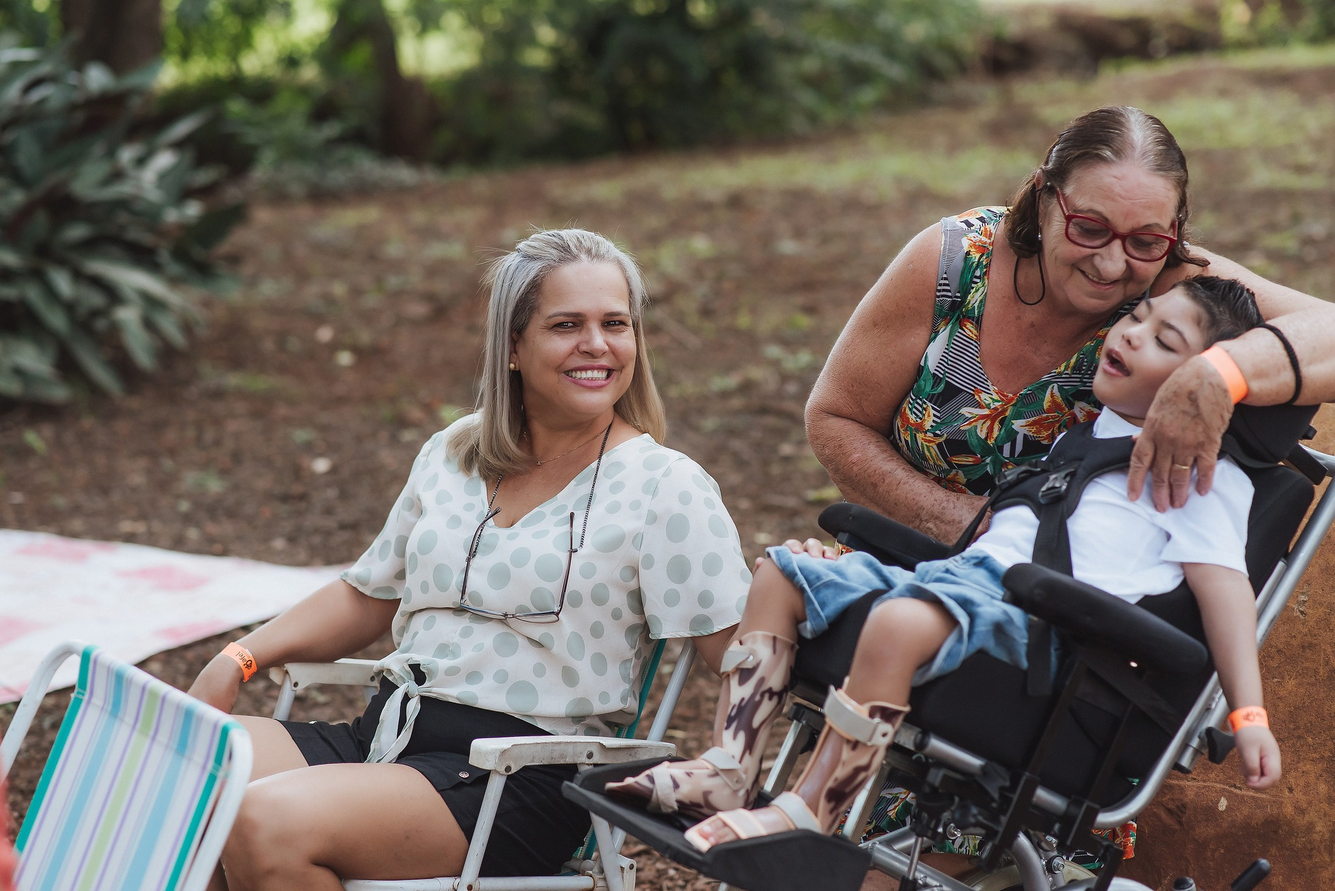
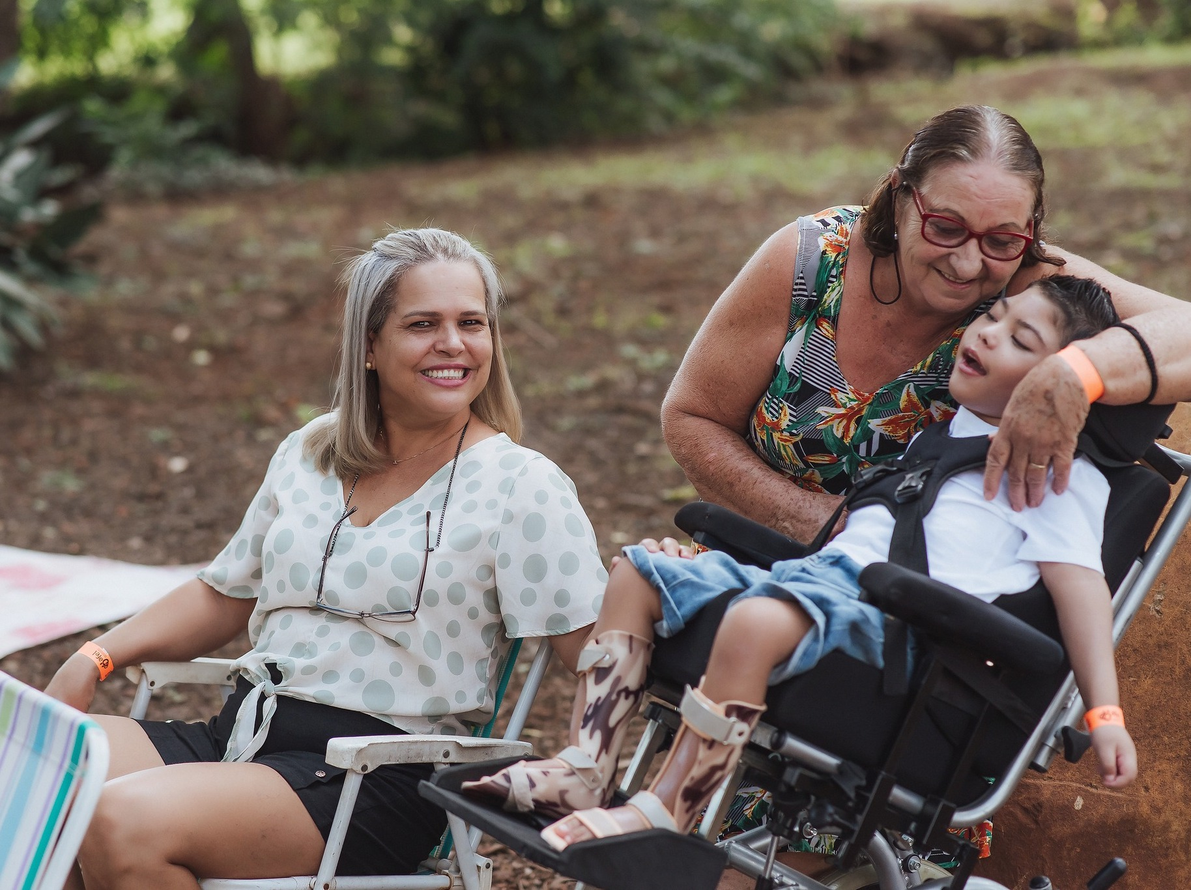
background de login

diff --git a/resources/views/auth/login.blade.php b/resources/views/auth/login.blade.php
@@ -1,77 +1,76 @@
-<div class="background">
-    <x-guest-layout>
-        <div class="hidden fixed top-0 right-0 px-6 py-4 sm:block">
-            {{-- <a href="http://127.0.0.1:8000/login" class="text-sm text-gray-700 dark:text-gray-500 underline">Log in</a> --}}
+<x-guest-layout>
+    <div class="hidden fixed top-0 right-0 px-6 py-4 sm:block">
+        {{-- <a href="http://127.0.0.1:8000/login" class="text-sm text-gray-700 dark:text-gray-500 underline">Log in</a> --}}
 
-            <a href="http://127.0.0.1:8000/register"
-                class="ml-4 text-sm text-gray-700 dark:text-gray-500 underline">Cadastre-se</a>
-        </div>
+        <a href="http://127.0.0.1:8000/register"
+            class="ml-4 text-sm text-gray-700 dark:text-gray-500 underline">Cadastre-se</a>
+    </div>
 
-        <div class="organizar">
-            <x-auth-card>
-                <x-slot name="logo">
-                    <div class="w-full sm:max-w-md mt-6 px-6 py-4 overflow-hidden sm:rounded-lg">
-                        <img src="imagens/logoCompletaColorida.png" width="400" height="341"
-                            alt="Associação Famílias Especiais de Londrina"><br>
-                        <p class="text-xl text-center">A AFEL surgiu em outubro de 2016 após varias mães se
-                            reunirem para reivindicar fraldas. Visamos dar suporte as famílias das pessoas com
-                            necessidades especiais.
-                        </p>
-                    </div>
-                </x-slot>
+    <div class="organizar">
+        <div class="background"></div>
 
-                <!-- Session Status -->
-                <x-auth-session-status class="mb-4" :status="session('status')" />
+        <x-auth-card>
+            <x-slot name="logo">
+                <div class="w-full sm:max-w-md mt-6 px-6 py-4 overflow-hidden sm:rounded-lg">
+                    <img src="imagens/logoCompletaColorida.png" width="400" height="341"
+                        alt="Associação Famílias Especiais de Londrina"><br>
+                    <p class="text-xl text-center">A AFEL surgiu em outubro de 2016 após varias mães se
+                        reunirem para reivindicar fraldas. Visamos dar suporte as famílias das pessoas com
+                        necessidades especiais.
+                    </p>
+                </div>
+            </x-slot>
 
-                <!-- Validation Errors -->
-                <x-auth-validation-errors class="mb-4" :errors="$errors" />
+            <!-- Session Status -->
+            <x-auth-session-status class="mb-4" :status="session('status')" />
 
-                <form method="POST" action="{{ route('login') }}">
-                    @csrf
+            <!-- Validation Errors -->
+            <x-auth-validation-errors class="mb-4" :errors="$errors" />
 
-                    <!-- Email Address -->
-                    <div>
-                        <x-label for="email" :value="__('Email')" />
+            <form method="POST" action="{{ route('login') }}">
+                @csrf
 
-                        <x-input id="email" class="block mt-1 w-full" type="email" name="email" :value="old('email')"
-                            required autofocus />
-                    </div>
+                <!-- Email Address -->
+                <div>
+                    <x-label for="email" :value="__('Email')" />
 
-                    <!-- Password -->
-                    <div class="mt-4">
-                        <x-label for="password" :value="__('Senha')" />
+                    <x-input id="email" class="block mt-1 w-full" type="email" name="email" :value="old('email')" required
+                        autofocus />
+                </div>
 
-                        <x-input id="password" class="block mt-1 w-full" type="password" name="password" required
-                            autocomplete="current-password" />
-                    </div>
+                <!-- Password -->
+                <div class="mt-4">
+                    <x-label for="password" :value="__('Senha')" />
 
-                    <!-- Remember Me -->
-                    <div class="block mt-4">
-                        <label for="remember_me" class="inline-flex items-center">
-                            <input id="remember_me" type="checkbox"
-                                class="rounded border-gray-300 text-indigo-600 shadow-sm focus:border-indigo-300 focus:ring focus:ring-indigo-200 focus:ring-opacity-50"
-                                name="remember">
-                            <span class="ml-2 text-sm text-gray-600">{{ __('Lembrar-me') }}</span>
-                        </label>
-                    </div>
+                    <x-input id="password" class="block mt-1 w-full" type="password" name="password" required
+                        autocomplete="current-password" />
+                </div>
 
-                    <div class="flex items-center justify-end mt-4">
-                        @if (Route::has('password.request'))
-                            <a class="underline text-sm text-gray-600 hover:text-gray-900"
-                                href="{{ route('password.request') }}">
-                                {{ __('Esqueceu a senha ?') }}
-                            </a>
-                        @endif
-                        <x-button class="ml-3">
-                            {{ __('Entrar') }}
-                        </x-button>
-                    </div>
-                </form>
-            </x-auth-card>
-        </div>
-    </x-guest-layout>
-</div>
+                <!-- Remember Me -->
+                <div class="block mt-4">
+                    <label for="remember_me" class="inline-flex items-center">
+                        <input id="remember_me" type="checkbox"
+                            class="rounded border-gray-300 text-indigo-600 shadow-sm focus:border-indigo-300 focus:ring focus:ring-indigo-200 focus:ring-opacity-50"
+                            name="remember">
+                        <span class="ml-2 text-sm text-gray-600">{{ __('Lembrar-me') }}</span>
+                    </label>
+                </div>
 
+                <div class="flex items-center justify-end mt-4">
+                    @if (Route::has('password.request'))
+                        <a class="underline text-sm text-gray-600 hover:text-gray-900"
+                            href="{{ route('password.request') }}">
+                            {{ __('Esqueceu a senha ?') }}
+                        </a>
+                    @endif
+                    <x-button class="ml-3">
+                        {{ __('Entrar') }}
+                    </x-button>
+                </div>
+            </form>
+        </x-auth-card>
+    </div>
+</x-guest-layout>
 
 <style>
     .organizar {
@@ -79,4 +78,12 @@
         justify-content: right;
         align-items: right;
     }
+
+    .background {
+        background-image: url(/imagens/backgroundAFEL.jpeg);
+        width: 100%;
+        background-size: cover;
+        z-index: -1;
+    }
+
 </style>

diff --git a/resources/views/auth/register.blade.php b/resources/views/auth/register.blade.php
@@ -10,7 +10,7 @@
         <!-- Validation Errors -->
         <x-auth-validation-errors class="mb-4" :errors="$errors" />
 
-        <ul id="div-errors" class="ml-3 mb-4 text-sm text-red-600 hidden list-disc"></ul>
+        <ul id="div-errors" class="ml-3 mb-4 text-sm text-red-600 hidden list-disc "></ul>
 
         <form method="POST" id="form-register" action="{{ route('register') }}">
             @csrf
@@ -114,7 +114,7 @@
                 </div>
 
                 {{-- escola --}}
-                <div class="mt-4">
+                <div class="mt-4 ">
                     <x-label for="escola" :value="__('Escola')" />
                     <select name="escola" id="escola" class="block mt-1 w-full" required>
                         <option value="nfescola">Não frequenta escola</option>
